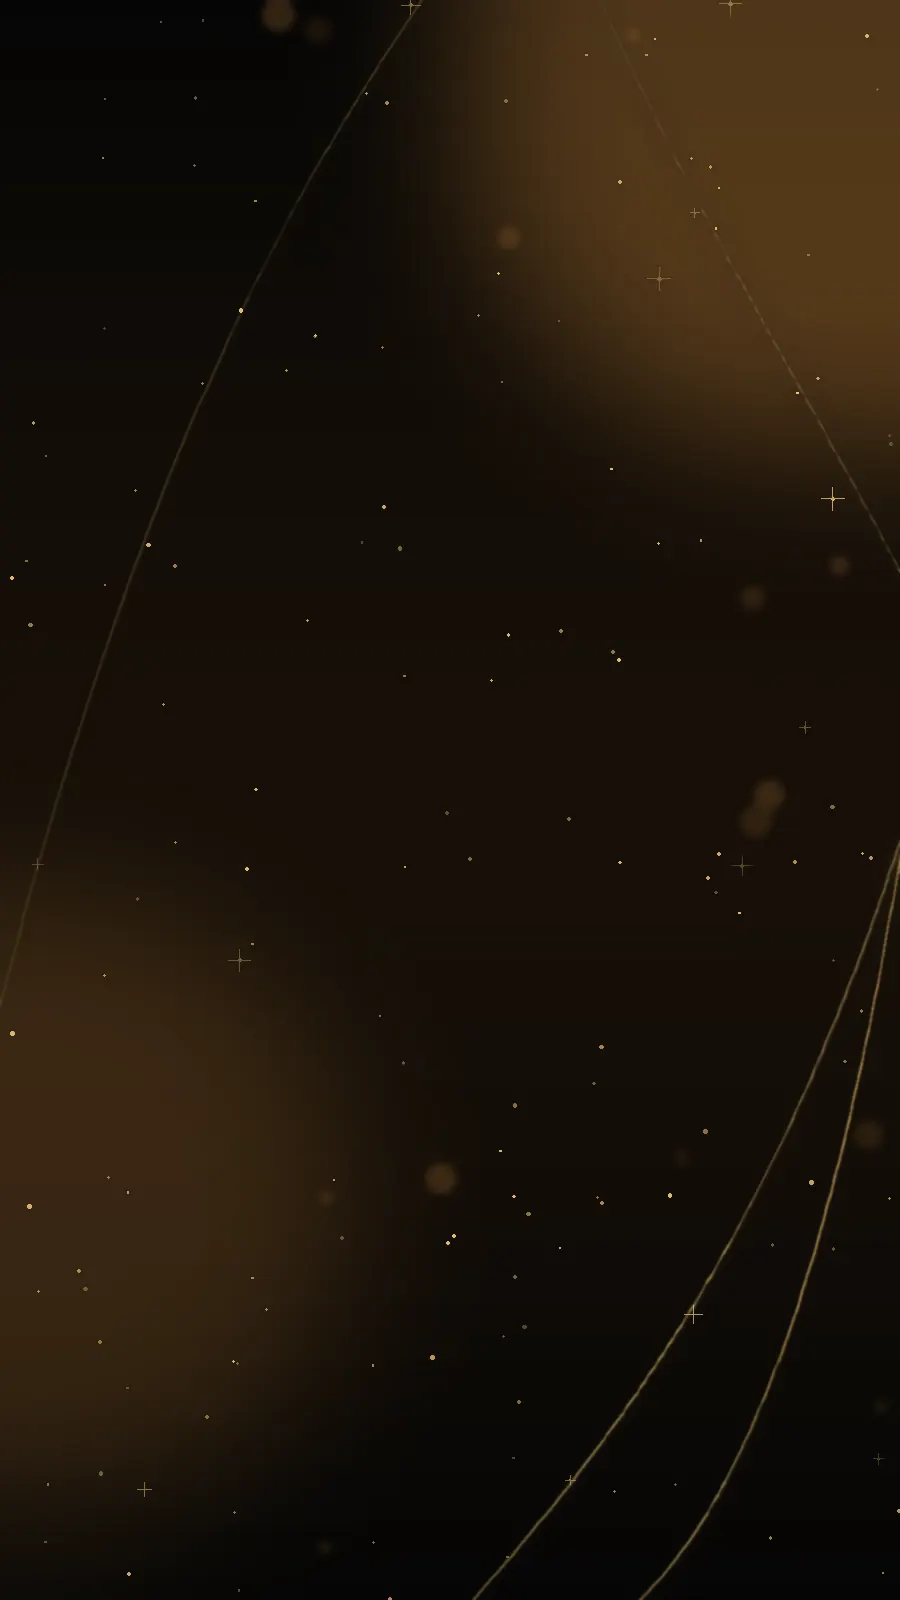
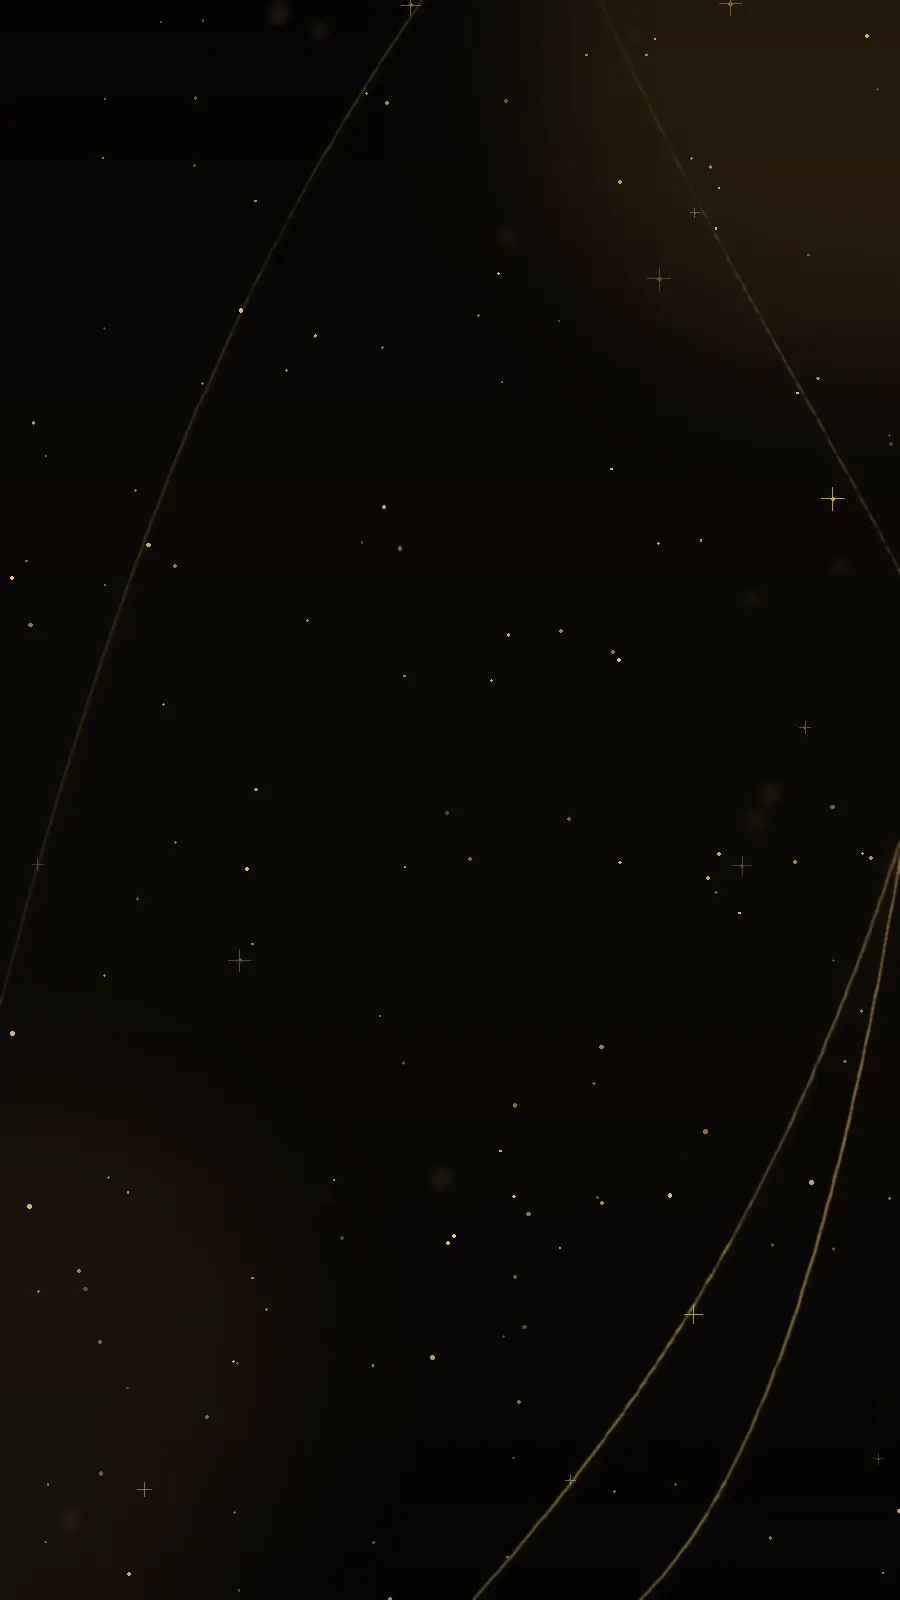
Fundo luxo mais escuro: base quase preta, brilhos e bokeh discretos; fundos, capas e kit do YouTube regerados

diff --git a/public/styles.css b/public/styles.css
@@ -71,7 +71,7 @@ p { margin: 0 0 1em; }
 /* Fundo vivo */
 .bg { position: fixed; inset: 0; z-index: -1; pointer-events: none; overflow: hidden; background: url("/img/bg-luxo.webp") center top / cover no-repeat #050505; }
 @media (max-width: 720px) { .bg { background-image: url("/img/bg-luxo-m.webp"); } }
-.bg-glow { position: absolute; border-radius: 50%; filter: blur(90px); opacity: .55; }
+.bg-glow { position: absolute; border-radius: 50%; filter: blur(90px); opacity: .3; }
 .bg-glow-1 { width: 60vw; height: 60vw; max-width: 760px; max-height: 760px; right: -18vw; top: -22vw; background: radial-gradient(circle, rgba(239, 161, 68, .28), rgba(239, 161, 68, 0) 65%); animation: drift 18s ease-in-out infinite alternate; }
 .bg-glow-2 { width: 50vw; height: 50vw; max-width: 640px; max-height: 640px; left: -20vw; top: 55vh; background: radial-gradient(circle, rgba(239, 161, 68, .14), rgba(239, 161, 68, 0) 65%); animation: drift 22s ease-in-out infinite alternate-reverse; }
 .bg-grid {

diff --git a/public/blog.css b/public/blog.css
@@ -7,14 +7,14 @@ body.page-blog, body.page-post { background: #050505; }
 body.page-blog::before, body.page-post::before {
   content: ""; position: fixed; inset: 0; z-index: -1; pointer-events: none;
   background:
-    radial-gradient(55% 45% at 88% 0%, rgba(239, 161, 68, .16), transparent 70%),
-    radial-gradient(45% 40% at 0% 78%, rgba(239, 161, 68, .10), transparent 70%),
+    radial-gradient(55% 45% at 88% 0%, rgba(239, 161, 68, .07), transparent 70%),
+    radial-gradient(45% 40% at 0% 78%, rgba(239, 161, 68, .04), transparent 70%),
     url("/img/bg-luxo.webp") center top / cover no-repeat,
     #050505;
 }
 @media (max-width: 720px) {
   body.page-blog::before, body.page-post::before { background-image:
-    radial-gradient(60% 30% at 90% 0%, rgba(239, 161, 68, .16), transparent 70%),
+    radial-gradient(60% 30% at 90% 0%, rgba(239, 161, 68, .07), transparent 70%),
     url("/img/bg-luxo-m.webp"); background-size: cover; background-position: center top; }
 }
 

diff --git a/tools/imagens/luxo.py b/tools/imagens/luxo.py
@@ -161,22 +161,23 @@ def paste(img, im, xy, shadow=True, glow=0.0):
 
 # ------------------------------------------------------------------ fundo
 
-def luxury_background(W, H, seed=7, streak_ids=None, sparkles=160, glows=None, streak_alpha=1.0):
+def luxury_background(W, H, seed=7, streak_ids=None, sparkles=160, glows=None, streak_alpha=1.0, glow_scale=0.55):
+    """Fundo quase preto: brilhos quentes discretos (glow_scale reduz o alfa de todos), feixes, particulas e bokeh."""
     rnd = random.Random(seed)
     scale = W / 1200
     img = Image.new("RGBA", (W, H), BLACK + (255,))
     grad = Image.new("RGBA", (1, H))
     for y in range(H):
         k = math.sin(y / max(1, H - 1) * math.pi)
-        grad.putpixel((0, y), lerp((5, 5, 5), (22, 15, 8), k) + (255,))
+        grad.putpixel((0, y), lerp((4, 4, 4), (12, 9, 5), k) + (255,))
     img.paste(grad.resize((W, H)))
 
-    # brilhos quentes
+    # brilhos quentes (so nos cantos; o centro fica escuro para o conteudo)
     glow = Image.new("RGBA", (W, H), (0, 0, 0, 0))
     gd = ImageDraw.Draw(glow)
-    for cx, cy, r, a in (glows or [(0.86, 0.08, 0.5, 90), (0.08, 0.85, 0.42, 55), (0.5, 0.55, 0.55, 30)]):
+    for cx, cy, r, a in (glows or [(0.9, 0.02, 0.45, 80), (0.04, 0.9, 0.38, 48)]):
         R = r * W / 2
-        gd.ellipse((cx * W - R, cy * H - R, cx * W + R, cy * H + R), fill=GOLD + (a,))
+        gd.ellipse((cx * W - R, cy * H - R, cx * W + R, cy * H + R), fill=GOLD + (int(a * glow_scale),))
     img = Image.alpha_composite(img, glow.filter(ImageFilter.GaussianBlur(W / 10)))
 
     # feixes de luz curvos
@@ -195,7 +196,9 @@ def luxury_background(W, H, seed=7, streak_ids=None, sparkles=160, glows=None, s
             ld.line([pts[j], pts[j + 1]], fill=GOLD_LIGHT + (int(alpha * fade),), width=width)
             ld.line([(pts[j][0], pts[j][1] + off), (pts[j + 1][0], pts[j + 1][1] + off)],
                     fill=GOLD + (int(alpha * 0.45 * fade),), width=max(1, width // 2))
-    img = Image.alpha_composite(img, lines.filter(ImageFilter.GaussianBlur(34 * scale)))
+    wide = lines.filter(ImageFilter.GaussianBlur(34 * scale))
+    wide.putalpha(wide.split()[3].point(lambda v: int(v * 0.45)))
+    img = Image.alpha_composite(img, wide)
     img = Image.alpha_composite(img, lines.filter(ImageFilter.GaussianBlur(14 * scale)))
     img = Image.alpha_composite(img, lines.filter(ImageFilter.GaussianBlur(1.2)))
 
@@ -219,8 +222,8 @@ def luxury_background(W, H, seed=7, streak_ids=None, sparkles=160, glows=None, s
     bd = ImageDraw.Draw(bk)
     for _ in range(max(6, sparkles // 10)):
         x, y = rnd.uniform(0, W), rnd.uniform(0, H)
-        r = rnd.uniform(8, 26) * scale
-        bd.ellipse((x - r, y - r, x + r, y + r), fill=GOLD + (rnd.randint(18, 50),))
+        r = rnd.uniform(6, 18) * scale
+        bd.ellipse((x - r, y - r, x + r, y + r), fill=GOLD + (rnd.randint(10, 26),))
     img = Image.alpha_composite(img, bk.filter(ImageFilter.GaussianBlur(6 * scale)))
 
     # vinheta
@@ -228,5 +231,5 @@ def luxury_background(W, H, seed=7, streak_ids=None, sparkles=160, glows=None, s
     ImageDraw.Draw(vg).ellipse((-W * 0.15, -H * 0.35, W * 1.15, H * 1.35), fill=255)
     vg = vg.filter(ImageFilter.GaussianBlur(W / 7))
     dark = Image.new("RGBA", (W, H), (0, 0, 0, 255))
-    dark.putalpha(ImageChops.invert(vg).point(lambda v: int(v * 0.6)))
+    dark.putalpha(ImageChops.invert(vg).point(lambda v: int(v * 0.72)))
     return Image.alpha_composite(img, dark)

diff --git a/tools/imagens/youtube.py b/tools/imagens/youtube.py
@@ -83,7 +83,7 @@ SX1, SY1 = SX0 + SAFE_W, SY0 + SAFE_H            # 2053, 931
 
 def banner():
     img = luxo.luxury_background(W, H, seed=5, streak_ids=luxo.SIDE_STREAKS, sparkles=320,
-                                 glows=[(0.86, 0.10, 0.50, 95), (0.10, 0.85, 0.45, 60), (0.50, 0.50, 0.70, 30)])
+                                 glows=[(0.9, 0.06, 0.48, 80), (0.08, 0.92, 0.42, 48)])
 
     # decoracao fora da area segura (aparece no desktop e na TV)
     luxo.paste(img, chip(250), (120, SY0 + 70))
@@ -163,7 +163,7 @@ def banner():
 def profile():
     S = 800
     img = luxo.luxury_background(S, S, seed=3, sparkles=90, streak_ids=[0, 2, 3, 5],
-                                 glows=[(0.5, 0.45, 0.95, 120), (0.2, 0.92, 0.6, 40)])
+                                 glows=[(0.5, 0.45, 0.9, 90)])
     luxo.paste(img, luxo.gold_ring(S, 352, 341), (0, 0), shadow=False, glow=0.35)
     luxo.gold_text(img, (S / 2, S / 2 + 22), "\u2660", symbol(500), anchor="mm", glow=0.6)
     img.convert("RGB").save(os.path.join(OUT, "perfil-youtube-800x800.png"), optimize=True)

diff --git a/tools/imagens/fundo-web.py b/tools/imagens/fundo-web.py
@@ -9,11 +9,11 @@ out = os.path.join(ROOT, "public", "img")
 os.makedirs(out, exist_ok=True)
 
 big = luxo.luxury_background(1920, 1200, seed=21, sparkles=240,
-                             glows=[(0.86, 0.05, 0.55, 85), (0.06, 0.78, 0.45, 50), (0.5, 0.5, 0.6, 22)])
+                             glows=[(0.92, 0.0, 0.5, 70), (0.03, 0.88, 0.4, 40)])
 big.convert("RGB").save(os.path.join(out, "bg-luxo.webp"), "WEBP", quality=80, method=6)
 
 tall = luxo.luxury_background(900, 1600, seed=23, sparkles=150, streak_ids=[0, 2, 3, 5],
-                              glows=[(0.9, 0.06, 0.9, 80), (0.05, 0.75, 0.8, 45)])
+                              glows=[(0.92, 0.03, 0.8, 60), (0.04, 0.85, 0.7, 35)])
 tall.convert("RGB").save(os.path.join(out, "bg-luxo-m.webp"), "WEBP", quality=78, method=6)
 
 for f in ("bg-luxo.webp", "bg-luxo-m.webp"):
